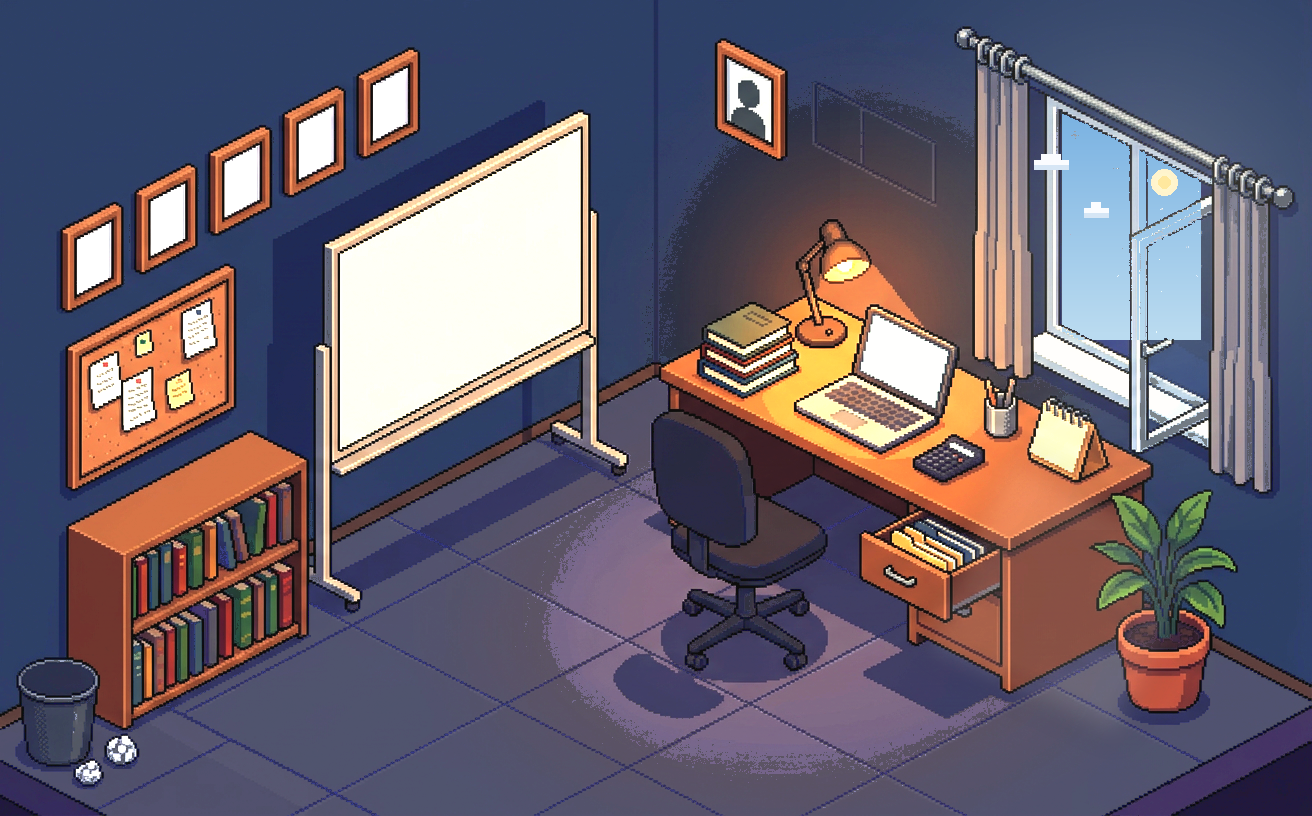
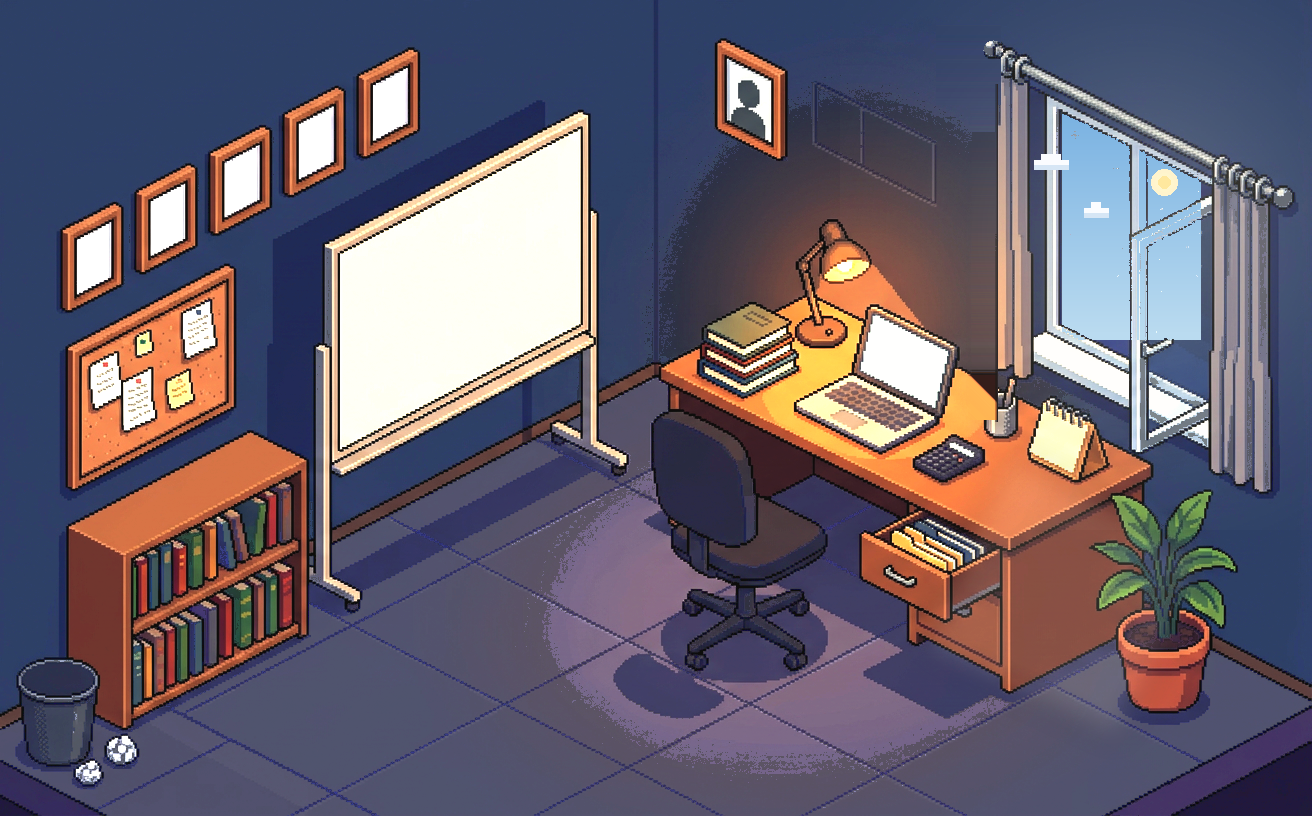
0.15.1: gorden kiri + rel kembali ringkas, persentase baterai lebih kecil

Changed region(s): [[0.7188, 0.0306, 0.7812, 0.5208]]

diff --git a/android/app/src/main/java/dev/retrobit/ruangkelas/Launcher.kt b/android/app/src/main/java/dev/retrobit/ruangkelas/Launcher.kt
@@ -578,9 +578,9 @@ private fun DrawScope.drawBatteryRail(box: SceneBox, battery: Int, isDay: Boolea
     }
 
     drawLine(color = Color(0x88000000), start = Offset(x1, y1 + 3f), end = Offset(x2, y2 + 3f),
-        strokeWidth = max(6f, box.unit.toPx() * 7f), cap = StrokeCap.Round)
+        strokeWidth = max(5f, box.unit.toPx() * 6f), cap = StrokeCap.Round)
     drawLine(color = mood, start = Offset(x1, y1), end = Offset(x2, y2),
-        strokeWidth = max(3f, box.unit.toPx() * 4.2f), cap = StrokeCap.Round)
+        strokeWidth = max(3f, box.unit.toPx() * 3.4f), cap = StrokeCap.Round)
 
     // tanda tiap 10% di sepanjang rel
     for (i in 1..9) {
@@ -590,8 +590,8 @@ private fun DrawScope.drawBatteryRail(box: SceneBox, battery: Int, isDay: Boolea
         val filled = battery >= i * 10
         drawLine(
             color = if (filled) Color(0xFF0E0D1A) else Color(0x66FFFFFF),
-            start = Offset(px, py - box.unit.toPx() * 5f),
-            end = Offset(px, py + box.unit.toPx() * 5f),
+            start = Offset(px, py - box.unit.toPx() * 4f),
+            end = Offset(px, py + box.unit.toPx() * 4f),
             strokeWidth = max(1f, box.unit.toPx() * 1.2f)
         )
     }
@@ -614,7 +614,7 @@ private fun BatteryLabel(box: SceneBox, battery: Int) {
         val plane = planeOf(box, BATTERY_TEXT_QUAD, this)
         withPlane(plane) { native ->
             paint.color = (if (battery <= 15) Color(0xFFEF6A5B) else Cream2).toArgb()
-            paint.textSize = plane.height * 0.66f
+            paint.textSize = plane.height * 0.58f
             val text = "$battery%"
             val measured = paint.measureText(text)
             if (measured > plane.width * 0.94f) paint.textSize *= plane.width * 0.94f / measured

diff --git a/web/index.html b/web/index.html
@@ -68,7 +68,7 @@
           keySplines="0.45 0 0.55 1;0.45 0 0.55 1"/>
       </image>
     </g>
-    <clipPath id="c0"><rect x="962" y="40" width="62" height="320"/></clipPath>
+    <clipPath id="c0"><rect x="995" y="78" width="40" height="308"/></clipPath>
 
     <g clip-path="url(#c1)">
       <image class="sway-scene" href="scene_night.png" x="0" y="0" width="1312" height="816">
@@ -91,14 +91,14 @@
     <clipPath id="c2"><rect x="1088" y="470" width="170" height="200"/></clipPath>
 
     <!-- rel gorden = indikator baterai -->
-    <line id="rail" x1="960" y1="35" x2="1288" y2="198"
-          stroke="#77B8D9" stroke-width="4.2" stroke-linecap="round"/>
+    <line id="rail" x1="1006" y1="57" x2="1288" y2="198"
+          stroke="#77B8D9" stroke-width="3.4" stroke-linecap="round"/>
     <g id="rail-ticks" stroke="#0E0D1A" stroke-width="1.2"></g>
 
     <!-- persentase baterai di dinding di atas rel -->
-    <g id="batt-g" transform="matrix(118.000,30.000,0.000,46.000,1002.000,4.000)">
-      <text id="batt" x="60.88" y="39.56" text-anchor="middle"
-            fill="#E3CDA6" font-size="30.36">100%</text>
+    <g id="batt-g" transform="matrix(108.000,26.000,0.000,44.000,1014.000,0.000)">
+      <text id="batt" x="55.54" y="37.84" text-anchor="middle"
+            fill="#E3CDA6" font-size="25.52">100%</text>
     </g>
 
     <!-- lima bingkai aplikasi -->
@@ -189,7 +189,7 @@ const TILES = [
   {label: "YouTube", x: 292, y: 102, w: 48, h: 82},
   {label: "Sinaga Jateng", x: 366, y: 63, w: 48, h: 83},
 ];
-const RAIL = [960,35,1288,198];
+const RAIL = [1006,57,1288,198];
 
 const stage = document.getElementById("stage");
 const sceneEl = document.getElementById("scene");

diff --git a/docs/index.html b/docs/index.html
@@ -3,7 +3,7 @@
 <head>
 <meta charset="utf-8">
 <meta name="viewport" content="width=device-width, initial-scale=1">
-<title>Ruang Kelas 0.15.0 — launcher workspace</title>
+<title>Ruang Kelas 0.15.1 — launcher workspace</title>
 <style>
   :root{
     --ink:#0E0D1A; --night:#15142A; --navy:#1D1C36; --panel:#272647;
@@ -33,7 +33,7 @@
 </head>
 <body>
 <header>
-  <h1>Ruang Kelas 0.15.0 · Launcher</h1>
+  <h1>Ruang Kelas 0.15.1 · Launcher</h1>
   <div class="sub">
     Satu layar saja: gambar workspace isometrik ukuran penuh. Tidak ada sidebar, tab, header,
     atau panel. Setiap objek di gambar bisa diketuk dan akan membuka aplikasi bawaannya —
@@ -42,8 +42,10 @@
     Kalender meja lebih tebal dan halamannya melipat saat tanggal berganti, gorden serta
     daun tanaman bergoyang, rel gorden jadi penunjuk baterai dengan persentase tertulis di
     dinding, dan ruangan ikut terang saat jam perangkat menunjukkan siang.
+    Di versi 0.15.1 gorden kiri dan relnya kembali ringkas — kain kiri 36 px (dari 58 px)
+    dan rel mulai di ujung jendela, jadi dinding kiri tidak lagi tertutup.
   </div>
-  <a class="cta" href="../dist/RuangKelas-0.15.0-debug.apk" download>⬇ Unduh APK 0.15.0</a>
+  <a class="cta" href="../dist/RuangKelas-0.15.1-debug.apk" download>⬇ Unduh APK 0.15.1</a>
 </header>
 
 <main>

diff --git a/android/app/src/main/java/dev/retrobit/ruangkelas/Data.kt b/android/app/src/main/java/dev/retrobit/ruangkelas/Data.kt
@@ -259,14 +259,14 @@ val FRAME_QUADS = listOf(
 val WINDOW_QUAD = intArrayOf(1062, 112, 1200, 178, 1062, 332, 1200, 398)
 
 /** Rel gorden: dari titik kiri ke kanan, dipakai juga sebagai penunjuk baterai. */
-val RAIL_LINE = intArrayOf(960, 35, 1288, 198)
+val RAIL_LINE = intArrayOf(1006, 57, 1288, 198)
 
 /** Persentase baterai di dinding, tepat di atas rel, mengikuti arah dinding. */
-val BATTERY_TEXT_QUAD = intArrayOf(1002, 4, 1120, 34, 1002, 50)
+val BATTERY_TEXT_QUAD = intArrayOf(1014, 0, 1122, 26, 1014, 44)
 
 /** Area gorden kiri & kanan yang ikut bergoyang saat ada hembusan angin. */
 val CURTAIN_RECTS = listOf(
-    intArrayOf(962, 40, 62, 320),
+    intArrayOf(995, 78, 40, 308),
     intArrayOf(1236, 128, 62, 330)
 )
 

diff --git a/tools/trim_curtain.py b/tools/trim_curtain.py
@@ -1,0 +1,119 @@
+"""Pangkas gorden kiri + rel pada art supaya kembali ke ukuran v6 (lebih kecil).
+
+`art/workspace-iso-v7.png` -> `art/workspace-iso-v7b.png`
+
+V7 : kain x 974..1032 (58 px) + rel mulai x 958 (finial).
+V6 : kain 36 px (x 997..1032) + rel mulai x 992 (bola finial baru).
+
+Supaya dinding tidak bergaris, tiap baris diisi SATU warna yang diambil dari
+dinding nyata di baris yang sama (x 957..972): gradasi vertikal tetap utuh,
+tidak ada blok/blur. Bola finial lama dipindah (bukan digambar ulang) supaya
+gaya pikselnya sama.
+
+    python3 tools/trim_curtain.py
+"""
+from pathlib import Path
+
+from PIL import Image
+
+ROOT = Path(__file__).resolve().parent.parent
+SRC = ROOT / "art/workspace-iso-v7.png"
+OUT = ROOT / "art/workspace-iso-v7b.png"
+
+NEW_EDGE = 997                  # tepi kiri kain yang baru
+FABRIC_RIGHT = 1032
+BAND_TOP, BAND_BOTTOM = 22, 104  # rel + ring + finial kiri yang dibuang
+BAND_X1 = 1000                   # ring ke-2 ikut dibuang (jangan sisa separuh)
+BALL_BOX = (956, 30, 978, 53)
+BALL_CENTER = (967, 41)
+NEW_BALL = (993, 50)
+OUTLINE = (29, 21, 29)
+
+
+def wall_row(px, y: int):
+    """Satu warna dinding untuk baris y (median, lewati bola rel / objek terang)."""
+    xs = range(940, 953) if 26 <= y <= 58 else range(957, 973)
+    vals = []
+    for x in xs:
+        r, g, b = px[x, y]
+        if r > 120 or r - b > 45:      # terlalu terang / hangat (layar, meja)
+            continue
+        vals.append((r, g, b))
+    if not vals:
+        return None
+    vals.sort(key=lambda c: c[0] + c[1] + c[2])
+    return vals[len(vals) // 2]
+
+
+def bright(px, x: int, y: int, limit: float = 112) -> bool:
+    r, g, b = px[x, y]
+    return (r + g + b) / 3 > limit
+
+
+def fabric_top(px) -> int:
+    """Baris pertama kain pada kolom 1002 (tepi baru)."""
+    for y in range(80, 300):
+        if bright(px, 1002, y):
+            return y
+    return 100
+
+
+def fabric_bottom(px) -> int:
+    """Baris terakhir kain pada kolom 1002."""
+    for y in range(419, 200, -1):
+        if bright(px, 1002, y):
+            return y
+    return 380
+
+
+def main() -> None:
+    im = Image.open(SRC).convert("RGB")
+    px = im.load()
+    out = im.copy()
+    op = out.load()
+
+    ball = im.crop(BALL_BOX)
+    offset = (NEW_BALL[0] - BALL_CENTER[0], NEW_BALL[1] - BALL_CENTER[1])
+
+    # ---- 1. rel + ring kiri + finial dibuang ----
+    for y in range(BAND_TOP, BAND_BOTTOM + 1):
+        c = wall_row(px, y)
+        if c is None:
+            continue
+        for x in range(936, BAND_X1 + 1):
+            op[x, y] = c
+
+    # ---- 2. kain kiri dibuang sampai tepi baru ----
+    for x in range(968, NEW_EDGE):
+        for y in range(BAND_BOTTOM + 1, 420):
+            c = wall_row(px, y)
+            if c is None:
+                c = op[x - 1, y - 1]
+            w = 1.0 if x > 972 else max(0.0, (x - 967) / 5.0)
+            r, g, b = op[x, y]
+            op[x, y] = (int(r * (1 - w) + c[0] * w),
+                        int(g * (1 - w) + c[1] * w),
+                        int(b * (1 - w) + c[2] * w))
+
+    # ---- 3. bola finial di ujung rel yang baru ----
+    for yy in range(ball.height):
+        for xx in range(ball.width):
+            if (xx - (BALL_CENTER[0] - BALL_BOX[0])) ** 2 + (yy - (BALL_CENTER[1] - BALL_BOX[1])) ** 2 > 10 ** 2:
+                continue
+            op[BALL_BOX[0] + offset[0] + xx, BALL_BOX[1] + offset[1] + yy] = ball.getpixel((xx, yy))
+
+    # ---- 4. tepi kiri kain + bayangan di dinding ----
+    top = fabric_top(px)
+    bottom = fabric_bottom(px) + 2
+    for y in range(top + 2, bottom + 1):
+        op[NEW_EDGE, y] = OUTLINE
+        for x, k in ((NEW_EDGE - 1, 0.52), (NEW_EDGE - 2, 0.72)):
+            r, g, b = op[x, y]
+            op[x, y] = (int(r * k), int(g * k), int(b * k))
+
+    out.save(OUT, optimize=True)
+    print("->", OUT.relative_to(ROOT), f"kain {NEW_EDGE}..{FABRIC_RIGHT}, rel mulai {NEW_BALL[0]}, kain mulai y={top}")
+
+
+if __name__ == "__main__":
+    main()

diff --git a/tools/make_preview.py b/tools/make_preview.py
@@ -211,7 +211,7 @@ HTML = """<!DOCTYPE html>
 
     <!-- rel gorden = indikator baterai -->
     <line id="rail" x1="__RAIL_X1__" y1="__RAIL_Y1__" x2="__RAIL_X2__" y2="__RAIL_Y2__"
-          stroke="#77B8D9" stroke-width="4.2" stroke-linecap="round"/>
+          stroke="#77B8D9" stroke-width="3.4" stroke-linecap="round"/>
     <g id="rail-ticks" stroke="#0E0D1A" stroke-width="1.2"></g>
 
     <!-- persentase baterai di dinding di atas rel -->
@@ -478,7 +478,7 @@ def build_html(data, scene_sizes):
         .replace("__BATT_MATRIX__", matrix_attr(batt))
         .replace("__BATT_W__", f"{batt_w / 2:.2f}")
         .replace("__BATT_H__", f"{batt_h * 0.86:.2f}")
-        .replace("__BATT_SIZE__", f"{batt_h * 0.66:.2f}")
+        .replace("__BATT_SIZE__", f"{batt_h * 0.58:.2f}")
         # papan tulis
         .replace("__BOARD_MATRIX__", matrix_attr(board))
         .replace("__BOARD_W__", f"{board_w / 2:.2f}")

diff --git a/tools/sim_overlay.py b/tools/sim_overlay.py
@@ -210,7 +210,7 @@ def build(mode, hour, battery=76, second=32):
     def paint_batt(w, h):
         layer = Image.new("RGBA", (w, h), (0, 0, 0, 0))
         dd = ImageDraw.Draw(layer)
-        fs = int(h * 0.66)
+        fs = int(h * 0.58)
         f = ImageFont.truetype(FONT, fs)
         while dd.textlength(f"{battery}%", font=f) > w * 0.94 and fs > 4:
             fs -= 1

diff --git a/tools/scene_face.py b/tools/scene_face.py
@@ -18,7 +18,7 @@ from pathlib import Path
 from PIL import Image, ImageChops, ImageDraw, ImageEnhance, ImageFilter
 
 ROOT = Path(__file__).resolve().parent.parent
-ART = ROOT / "art/workspace-iso-v7.png"
+ART = ROOT / "art/workspace-iso-v7b.png"
 
 CAL_BOX = (1010, 390, 110, 95)     # area pencarian kertas kalender di gambar asli
 

diff --git a/README.md b/README.md
@@ -5,16 +5,20 @@ satu layar berisi gambar workspace isometrik ukuran penuh. Tanpa sidebar, tanpa 
 tanpa header, tanpa panel. Setiap objek di gambar bisa diketuk untuk membuka aplikasi
 bawaannya — aplikasi itu dibuat menyusul, satu per satu.
 
-**Status: v0.15.0 — jam analog dihapus, tinggal jam digital dinding yang sejajar dan
+**Status: v0.15.1 — jam analog dihapus, tinggal jam digital dinding yang sejajar dan
 setinggi bingkai foto; bendera Indonesia menempel di kanannya; papan tulis memakai
 judul "Jadwal Mengajar"; kalender meja lebih tebal dan halamannya melipat saat tanggal
 berganti; jendela tanpa palang dengan gorden & daun tanaman yang bergoyang; rel gorden
 jadi penunjuk baterai dengan persentase tertulis di dinding; tempat sampah membuka
 file manager; suasana siang/malam mengikuti jam perangkat.**
 
+Perbaikan 0.15.1: gorden kiri dan rel kembali ringkas seperti versi sebelumnya — kain
+kiri 36 px (dari 58 px) dan rel mulai tepat di ujung jendela sehingga dinding kiri
+tidak lagi tertutup; garis rel dan angka persentase dibuat lebih tipis/kecil.
+
 | | |
 |---|---|
-| APK siap pasang | [`dist/RuangKelas-0.15.0-debug.apk`](dist/RuangKelas-0.15.0-debug.apk) |
+| APK siap pasang | [`dist/RuangKelas-0.15.1-debug.apk`](dist/RuangKelas-0.15.1-debug.apk) |
 | Build otomatis | [`.github/workflows/android.yml`](.github/workflows/android.yml) |
 | Bukti jalan | [`docs/index.html`](docs/index.html) · [`docs/screens/`](docs/screens) |
 | Prototipe HTML lama | [`preview-ruang-kelas.html`](preview-ruang-kelas.html) (acuan desain) |
@@ -23,7 +27,7 @@ file manager; suasana siang/malam mengikuti jam perangkat.**
 
 ## Cara memasang
 
-1. Unduh `dist/RuangKelas-0.15.0-debug.apk`, buka di tablet, izinkan "instal dari sumber ini".
+1. Unduh `dist/RuangKelas-0.15.1-debug.apk`, buka di tablet, izinkan "instal dari sumber ini".
 2. Buka **Ruang Kelas** — launcher langsung tampil penuh, landscape, tanpa system bar.
 
 ## Mode landscape
@@ -119,7 +123,7 @@ setiap hotspot berada tepat di atas objeknya dan muka jam/kalender terisi.
 ## Struktur
 
 ```
-art/workspace-iso-v7.png          gambar isometrik terkini 1312 × 816 (tata letak 0.15.0)
+art/workspace-iso-v7b.png         gambar isometrik terkini 1312 × 816 (gorden kiri ringkas, 0.15.1)
 art/workspace-iso-v6.png          gambar sebelumnya (arsip)
 art/workspace-iso-v5.png          gambar sebelumnya (arsip)
 art/workspace-iso-v4.png          percobaan sebelumnya (arsip)
@@ -146,6 +150,6 @@ cd android && gradle :app:assembleDebug
 ```
 
 GitHub Actions menjalankan hal yang sama, menyimpan APK ke `dist/`, dan memperbarui
-release `v0.15.0-android`. Workflow kedua (`android-preview.yml`, dipicu
+release `v0.15.1-android`. Workflow kedua (`android-preview.yml`, dipicu
 `.ci/preview.trigger`) memasang APK di emulator tablet 2560 × 1600, memotret launcher,
 mengetuk beberapa objek, lalu menyimpan screenshot ke `docs/screens/`.
